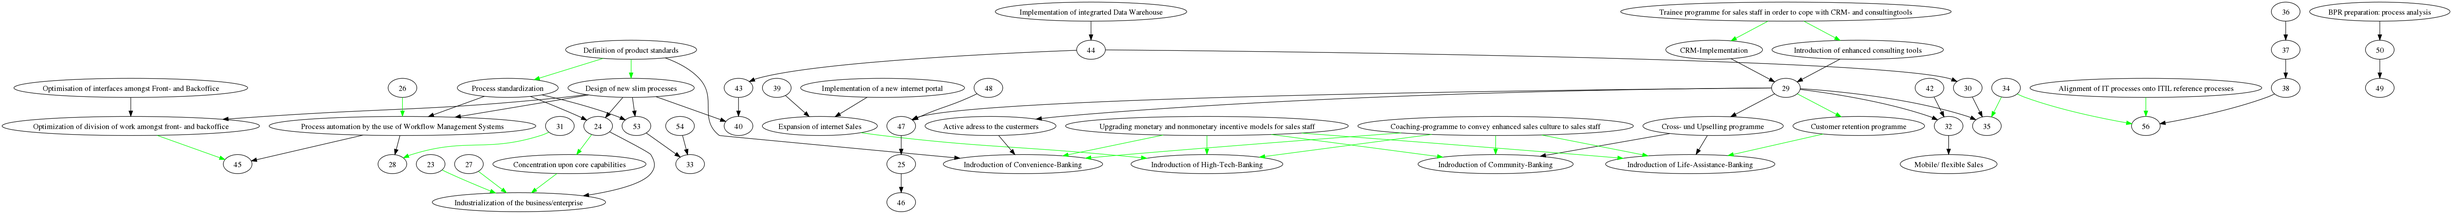
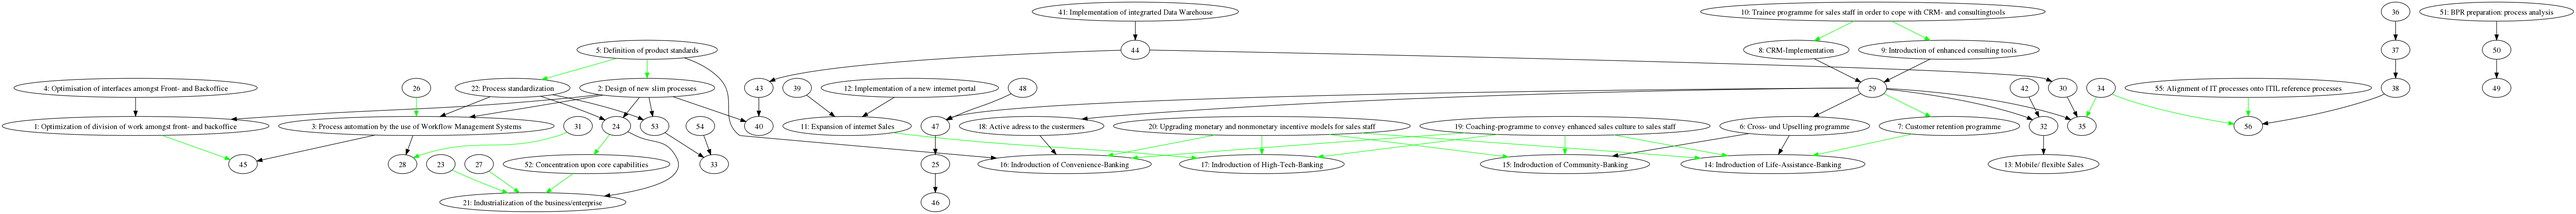
added id in front of names

diff --git a/app/models/project.php b/app/models/project.php
@@ -44,7 +44,7 @@ class Project extends AppModel {
         $data = 'digraph ' . $graphname . ' {'."\n";
 
         foreach($projects as $id => $name) {
-            $data .= $id . ' [label="' . $name . '"]'."\n";
+            $data .= $id . ' [label="' . $id . ': ' . $name . '"]'."\n";
         }
 
         foreach($relations as $r) {
